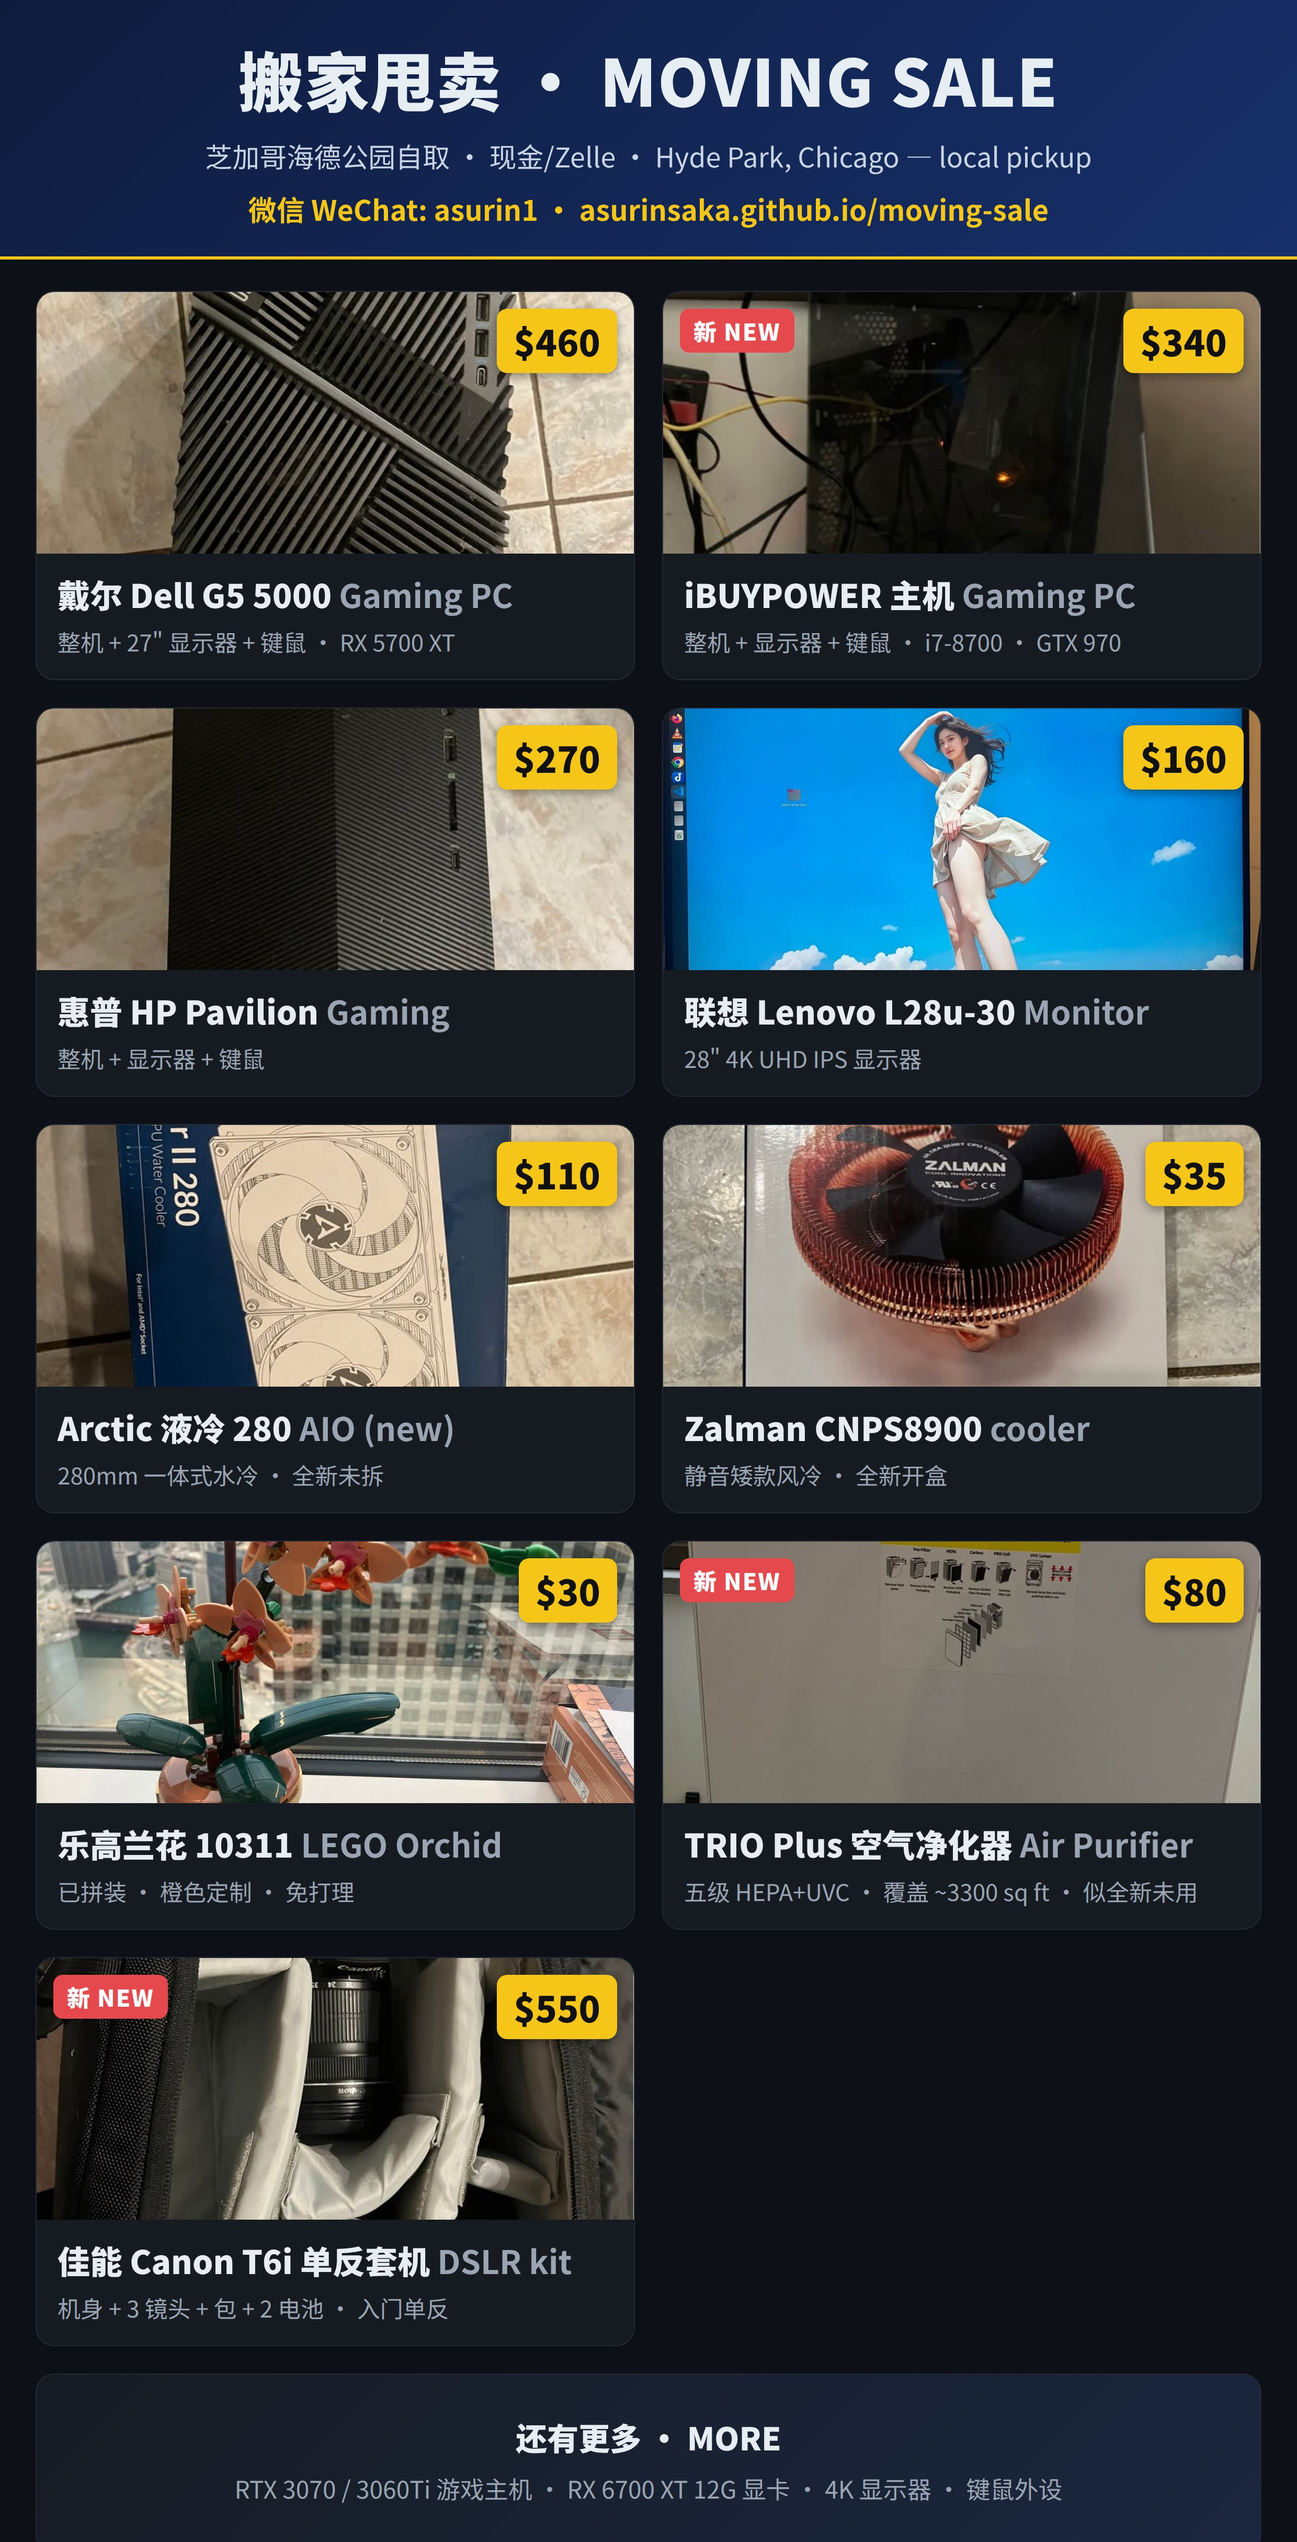
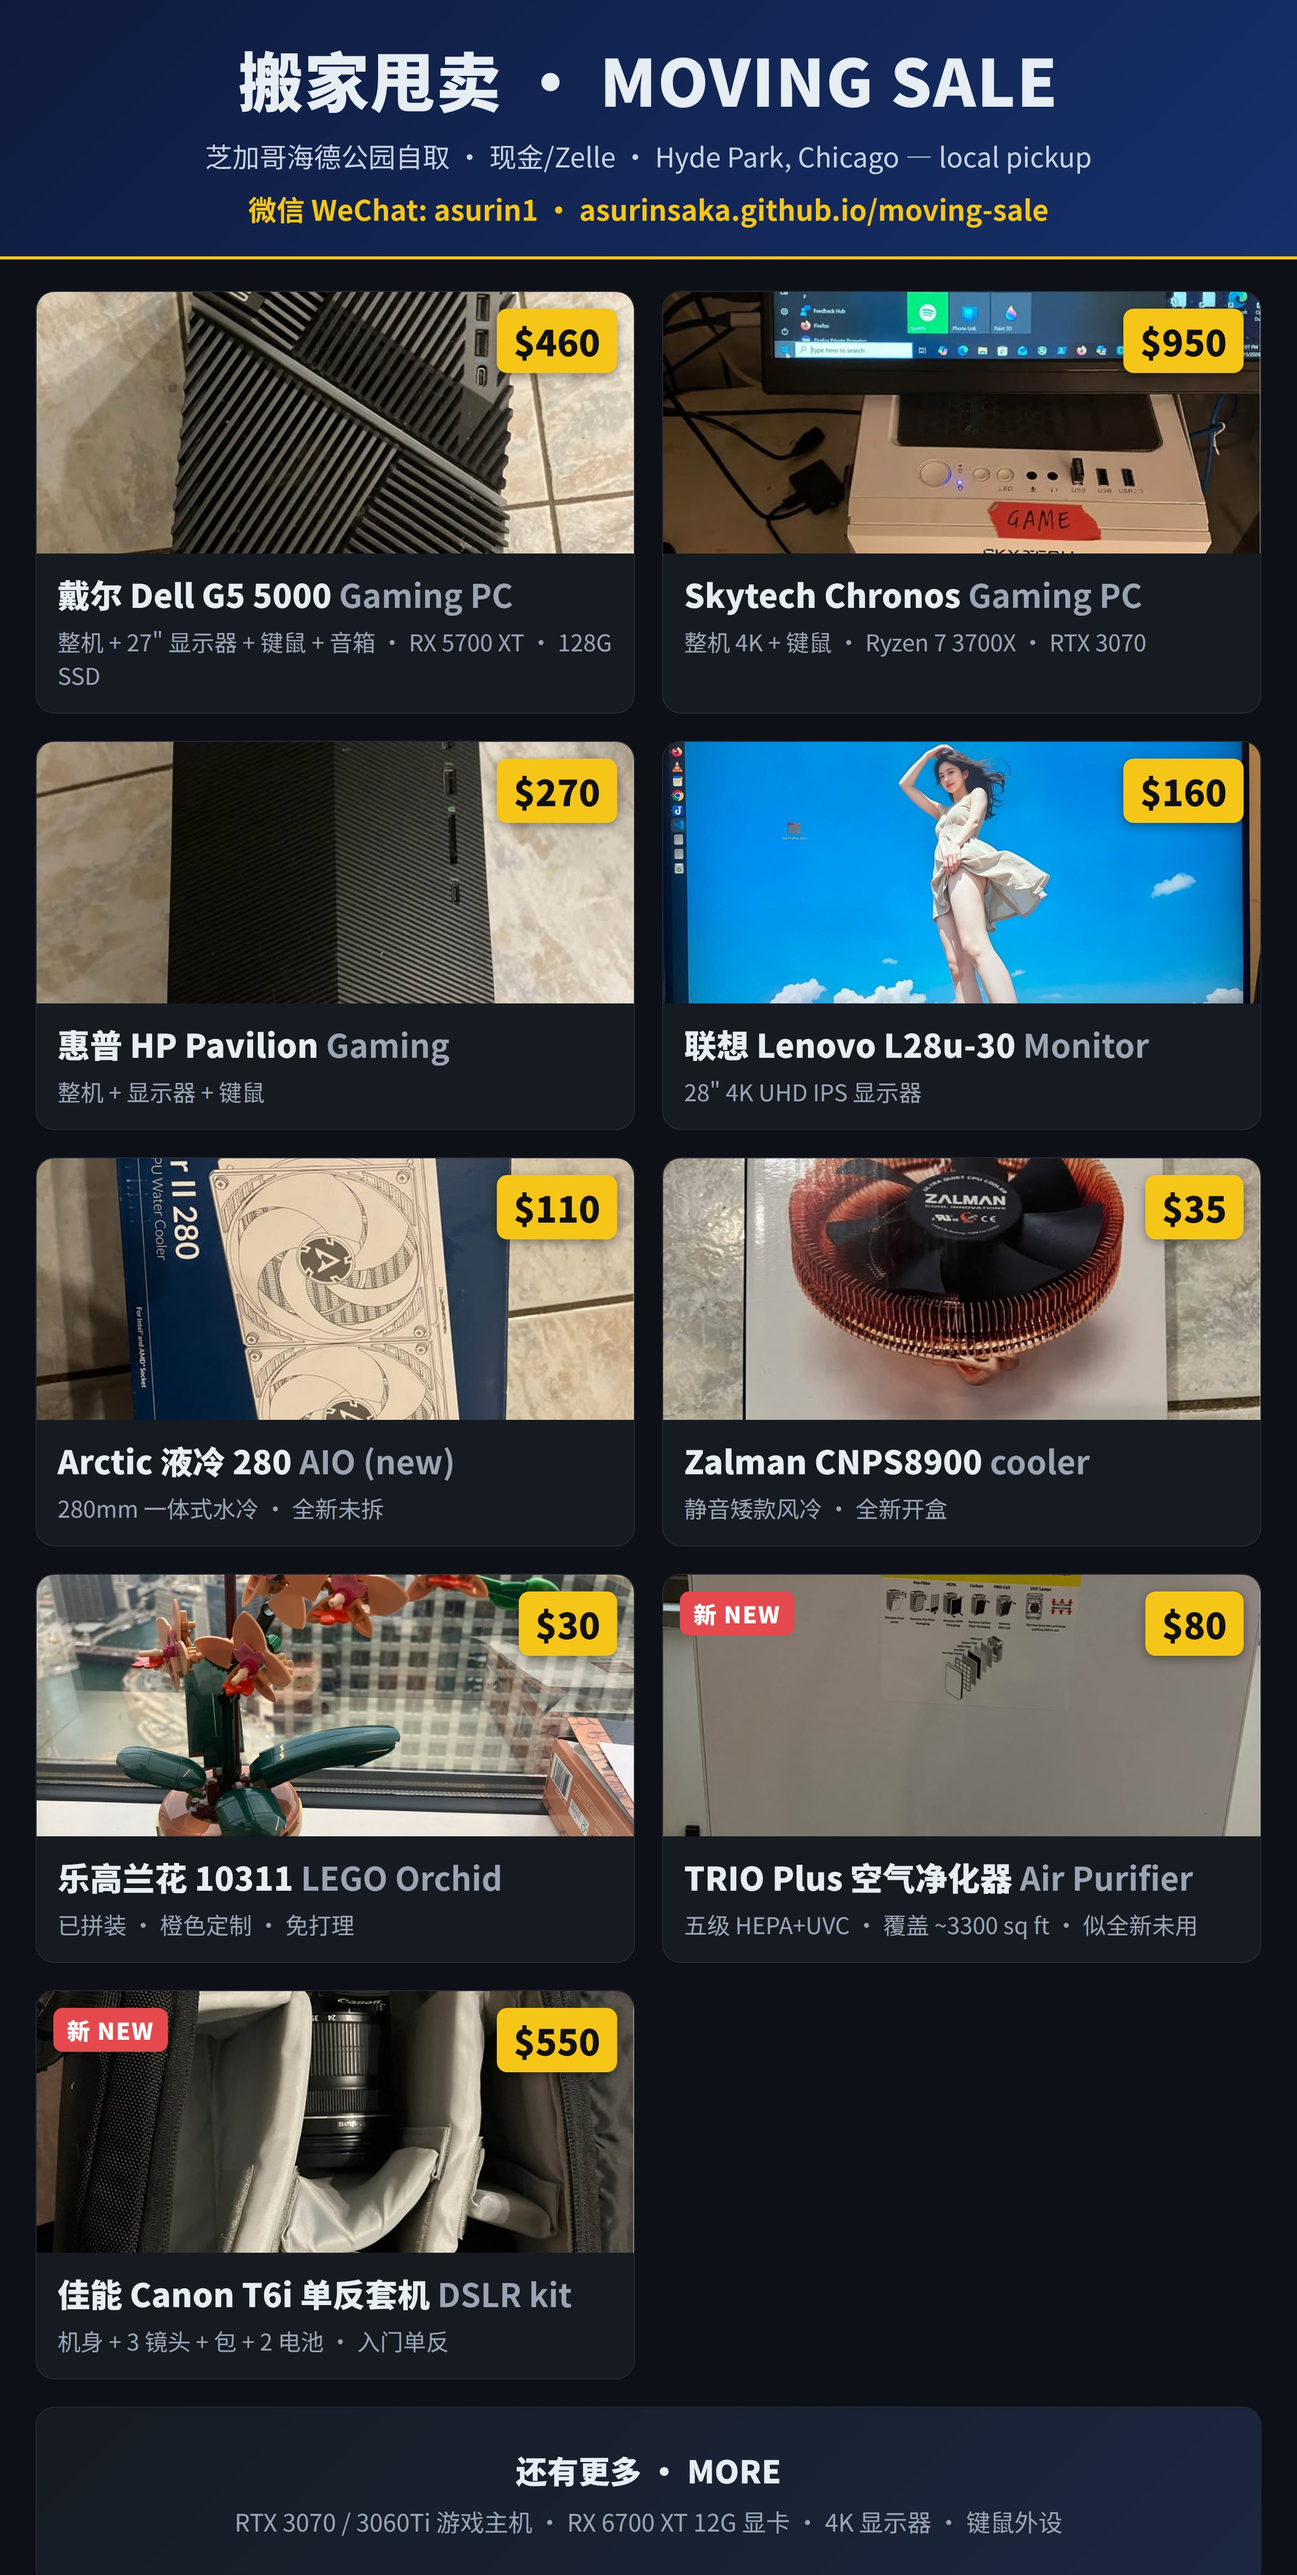
Reconcile site+poster: W8700 sold, Skytech photo, G5 specs, add IKEA KALLAX
- electronics: mark W8700 sold:true; Skytech gets its photo
- collectibles: add IKEA KALLAX 8-cube ($40, birch) with photo
- poster: drop sold W8700 -> Skytech card; G5 blurb -> 128GB SSD + speakers;
  regenerate share/moving-sale-poster.{png,jpg}

diff --git a/electronics/items.js b/electronics/items.js
@@ -6,7 +6,7 @@ window.ITEMS = [
   note:"主机+键鼠，可加显示器 / tower + KB/mouse (monitor available)",
   detail:"高性能游戏主机，八核 5800X + RTX 3060 Ti，静音水冷，1080p/2K 畅玩。可当面测试。A powerful, quiet liquid-cooled gaming PC — great for 1080p/1440p gaming and content creation. Test before you buy.",
   ai:"🤖 <b>本地 AI / Local AI：</b>8G 显存 + CUDA，可本地跑 Llama&nbsp;3 / Qwen2.5 / DeepSeek 等 <b>7–8B 大模型（量化）</b>，以及 Stable Diffusion / SDXL 出图。Runs 7–8B LLMs (Llama 3, Qwen 2.5, DeepSeek, 4-bit) + Stable Diffusion/SDXL locally."},
- {id:"skytech-chronos", cat:"desk", zh:"Skytech Chronos 游戏主机", en:"Skytech Chronos Gaming PC", price:950, photo:"",
+ {id:"skytech-chronos", cat:"desk", zh:"Skytech Chronos 游戏主机", en:"Skytech Chronos Gaming PC", price:950, photo:"images/skytech.jpg",
   cond:"二手良好 · 顶部有轻微凹痕(仅外观) / used, good — minor cosmetic dent on top panel", specs:["Ryzen 7 3700X · RTX 3070 8G","16G DDR4-3600 · 1TB NVMe","Windows 11"],
   note:"主机+键鼠，可加显示器 / tower + KB/mouse (monitor available)",
   detail:"RTX 3070 游戏主机，2K 高画质流畅。顶部有一处轻微凹痕，纯外观、不影响使用。RTX 3070 rig — strong 1080p/1440p gaming. Small cosmetic dent on the top panel (does not affect performance).",
@@ -21,8 +21,8 @@ window.ITEMS = [
   note:"含 27寸显示器 + 键鼠 + 音箱 / incl. 27\" monitor + KB/mouse + speakers",
   detail:"整套即插即用，含27寸显示器、键鼠和桌面音箱，128G SSD 系统盘启动快 + 1TB 机械硬盘存储，适合1080p游戏。Complete plug-and-play setup incl. a 27\" monitor, keyboard/mouse, and desktop speakers. 128GB SSD boot (fast) + 1TB HDD storage — great for 1080p gaming.",
   ai:"🤖 <b>本地 AI / Local AI：</b>8G 显存，可用 <b>Ollama (Vulkan)</b> 跑 7–8B 模型（AMD 卡，无 CUDA）。8GB — runs 7–8B LLMs via Ollama/Vulkan (AMD card, no CUDA)."},
- {id:"ibuypower-w8700", cat:"desk", zh:"iBUYPOWER 游戏主机 (整套)", en:"iBUYPOWER Gaming PC (complete setup)", price:340, photo:"images/ibuypower-w8700.jpg",
-  cond:"二手良好 / used, good", specs:["i7-8700 (6核12线程) · GTX 970 4G","16G DDR4 · 120G SSD","ASUS H310 · Windows 11"],
+ {id:"ibuypower-w8700", cat:"desk", sold:true, zh:"iBUYPOWER 游戏主机 (整套)", en:"iBUYPOWER Gaming PC (complete setup)", price:340, photo:"images/ibuypower-w8700.jpg",
+  cond:"已售出 / sold (2026-08)", specs:["i7-8700 (6核12线程) · GTX 970 4G","16G DDR4 · 120G SSD","ASUS H310 · Windows 11"],
   note:"含 显示器 + 键鼠 / incl. monitor + KB/mouse",
   detail:"iBUYPOWER 整套即插即用：六核 i7-8700 + GTX 970，含显示器和键鼠，全新装好 Windows 11。适合 1080p 游戏/办公/网课，可当面测试。Complete iBUYPOWER setup — 6-core i7-8700 + GTX 970, incl. monitor + keyboard/mouse, fresh Windows 11. Great for 1080p gaming, office, or school. Test before you buy.",
   ai:"🤖 <b>本地 AI / Local AI：</b>GTX 970 (4G) + CUDA，可本地跑 <b>3–7B 量化模型</b>（Llama&nbsp;3 / Qwen2.5，4-bit）。4GB — runs small 3–7B quantized LLMs locally (CUDA)."},

diff --git a/collectibles/items.js b/collectibles/items.js
@@ -14,6 +14,10 @@ window.ITEMS = [
   cond:"近新 · 似未使用 / like-new, appears unused", specs:["5级过滤: 预滤+活性炭+H13 HEPA+UVC+PCO / 5-stage","覆盖约 3300 平方英尺 · 305 CFM / up to 3,300 sq ft","空气质量传感器 + 自动模式 · Energy Star","Costco 全新约 $150 / ~$150 new at Costco"],
   note:"海德公园自取 · 较大件 / local pickup (bulky); 可邮寄买家付运费 / can ship",
   detail:"Costco 购入的 TRIO Plus 全屋五级空气净化器 (Costco 货号 1954355 / Field Controls 602604400)。5级净化：可水洗预滤网 + 活性炭 + H13 真 HEPA (99.97% @ 0.3µm) + UVC 紫外灯 + PCO 除味除气。CADR 305 CFM，可净化最大约 3300 平方英尺的空间。内置空气质量传感器 + 自动模式，Energy Star 节能，安静(最低约25分贝)。<b>滤网塑封似乎从未拆封，几乎全新</b>。Costco 全新约 $150。海德公园自取(较大件)，也可邮寄(买家付运费)。TRIO Plus whole-home 5-stage air purifier from Costco (item 1954355 / Field Controls 602604400). 5 stages: washable pre-filter + activated carbon + H13 True HEPA (99.97% @ 0.3µm) + UVC lamps + PCO for odors/gases. CADR 305 CFM — cleans up to ~3,300 sq ft. Built-in air-quality sensor + Auto mode, Energy Star, quiet (down to ~25 dB). <b>Filters still appear factory-sealed — basically unused.</b> ~$150 new at Costco. Local pickup in Hyde Park (bulky); can ship at buyer's cost."},
+ {id:"ikea-kallax-8cube", cat:"misc", zh:"宜家 KALLAX 8格置物架", en:"IKEA KALLAX 8-Cube Shelf", price:40, photo:"images/ikea-kallax.jpg",
+  cond:"二手良好 · 桦木色 / used, good — birch/light wood", specs:["4×2 八格 · 147×77cm","结实能装 · 可当隔断 / sturdy, room divider","整体出(刨花板不能拆) / sold assembled"],
+  note:"海德公园自取 · 现金/Zelle / local pickup, cash/Zelle",
+  detail:"宜家 KALLAX 8格置物架(桦木色)，结实能装，适合书/杂物/黑胶/收纳盒，也可当隔断。整体出(KALLAX 刨花板拆了会松/坏)，海德公园自取。IKEA KALLAX 4x2 (8-cube) shelf in birch/light wood — sturdy; great for books, records, bins, or as a room divider. Sold assembled (particleboard doesn't survive disassembly). Local pickup in Hyde Park."},
  {id:"haier-qtpc05aa", cat:"misc", sold:true, zh:"海尔 5050 BTU 窗式空调", en:"Haier 5,050 BTU Window AC", price:75, photo:"images/haier-qtpc05aa.jpg",
   cond:"已售出 / sold", specs:["5050 BTU · 115V 普通插座","已于 2026-08 售出 / sold Aug 2026"],
   note:"海德公园自取 / local pickup only",

diff --git a/poster.html b/poster.html
@@ -36,11 +36,11 @@
   <div class="grid">
     <div class="card"><div class="imgwrap"><img src="electronics/images/g5.jpg"><div class="price">$460</div></div>
       <div class="body"><div class="name">戴尔 Dell G5 5000 <span class="en">Gaming PC</span></div>
-      <div class="note">整机 + 27" 显示器 + 键鼠 · RX 5700 XT</div></div></div>
+      <div class="note">整机 + 27" 显示器 + 键鼠 + 音箱 · RX 5700 XT · 128G SSD</div></div></div>
 
-    <div class="card"><div class="imgwrap"><img src="electronics/images/ibuypower-w8700.jpg"><div class="newtag">新 NEW</div><div class="price">$340</div></div>
-      <div class="body"><div class="name">iBUYPOWER 主机 <span class="en">Gaming PC</span></div>
-      <div class="note">整机 + 显示器 + 键鼠 · i7-8700 · GTX 970</div></div></div>
+    <div class="card"><div class="imgwrap"><img src="electronics/images/skytech.jpg"><div class="price">$950</div></div>
+      <div class="body"><div class="name">Skytech Chronos <span class="en">Gaming PC</span></div>
+      <div class="note">整机 4K + 键鼠 · Ryzen 7 3700X · RTX 3070</div></div></div>
 
     <div class="card"><div class="imgwrap"><img src="electronics/images/hp1.jpg"><div class="price">$270</div></div>
       <div class="body"><div class="name">惠普 HP Pavilion <span class="en">Gaming</span></div>
